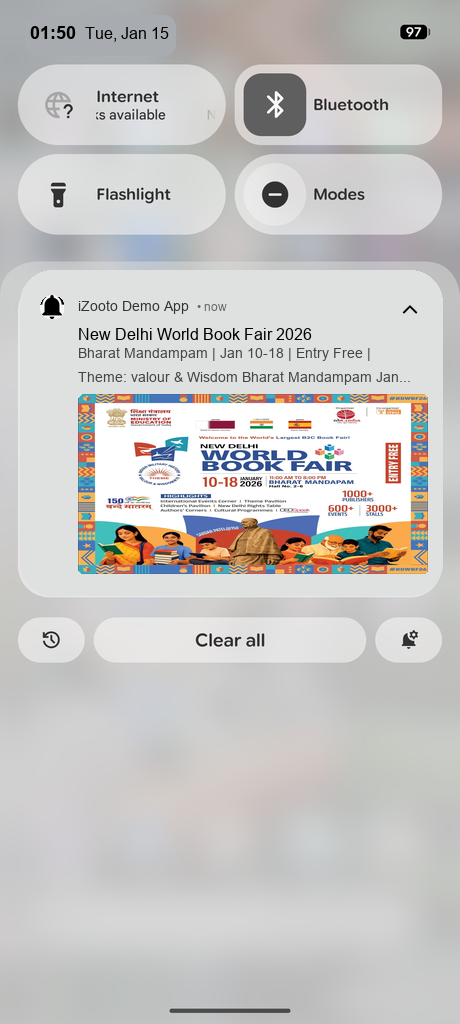
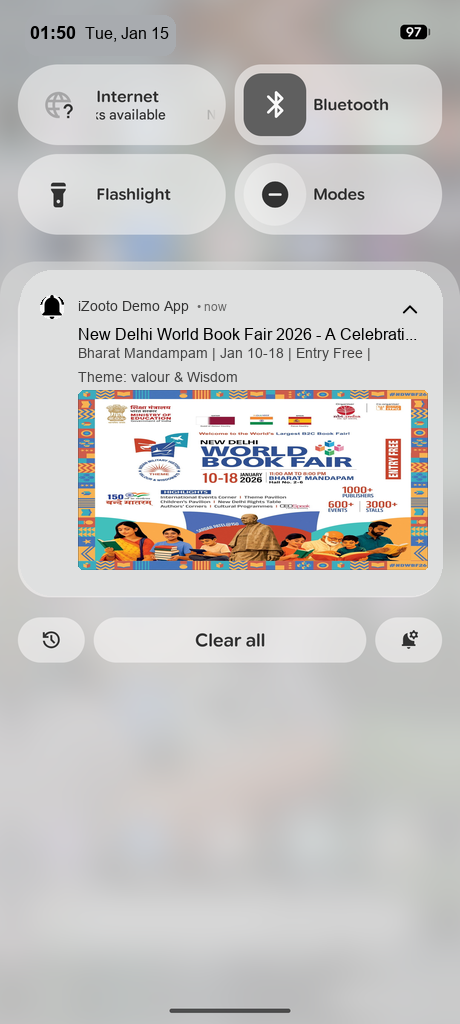
styling updates

Changed region(s): [[0.1522, 0.3125, 0.9435, 0.5625]]

diff --git a/generateSS.py b/generateSS.py
@@ -172,9 +172,10 @@ class ImageGenerator:
                     max_width = cfg.get('max_width', canvas_size[0] - pos[0] * 2)
                     lines = self.wrap_text(content, font, max_width)
                     
-                    # --- Truncate to max 2 lines with ellipsis ---
-                    if eid in ['title', 'description'] and len(lines) > 2:
-                        lines = lines[:2]
+                    # --- Truncate to max lines with ellipsis ---
+                    truncation_limit = 1 if eid == 'title' else 2
+                    if eid in ['title', 'description'] and len(lines) > truncation_limit:
+                        lines = lines[:truncation_limit]
                         last_line = lines[-1]
                         while last_line:
                             bbox = draw.textbbox((0, 0), last_line + "...", font=font)

diff --git a/generate_all.py b/generate_all.py
@@ -8,7 +8,7 @@ SCRIPT_NAME = "generateSS.py"
 
 # Common Data
 DATE_TIME = "Tue, Jan 15, 01:50"
-TITLE = "New Delhi World Book Fair 2026"
+TITLE = "New Delhi World Book Fair 2026 - A Celebration of Literature, Culture, and History across the Ages"
 BASE_DESCRIPTION = "Bharat Mandampam | Jan 10-18 | Entry Free | Theme: valour & Wisdom"
 APP_NAME = "iZooto Demo App"
 ICON_FILE = "assets/icons/bell-icon.png" 
@@ -52,7 +52,7 @@ def run_gen(tid, description_suffix=""):
         print(f"❌ Execution Error: {e}")
 
 def main():
-    print("🚀 Starting Batch Generation for Templates 1-4...\n")
+    print("🚀 Starting Batch Generation for Templates...\n")
     
     if not os.path.exists(SCRIPT_NAME):
         print(f"Error: {SCRIPT_NAME} not found in current directory.")
